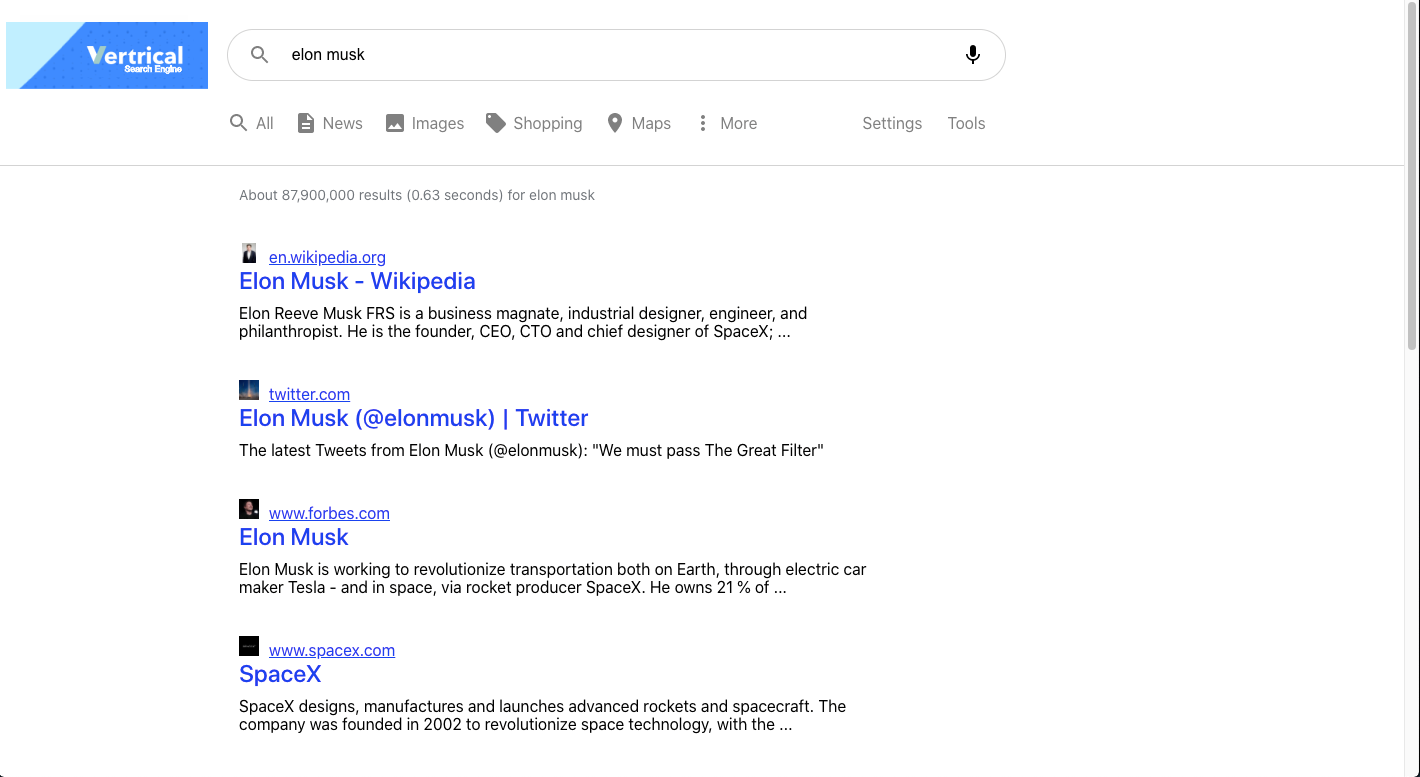
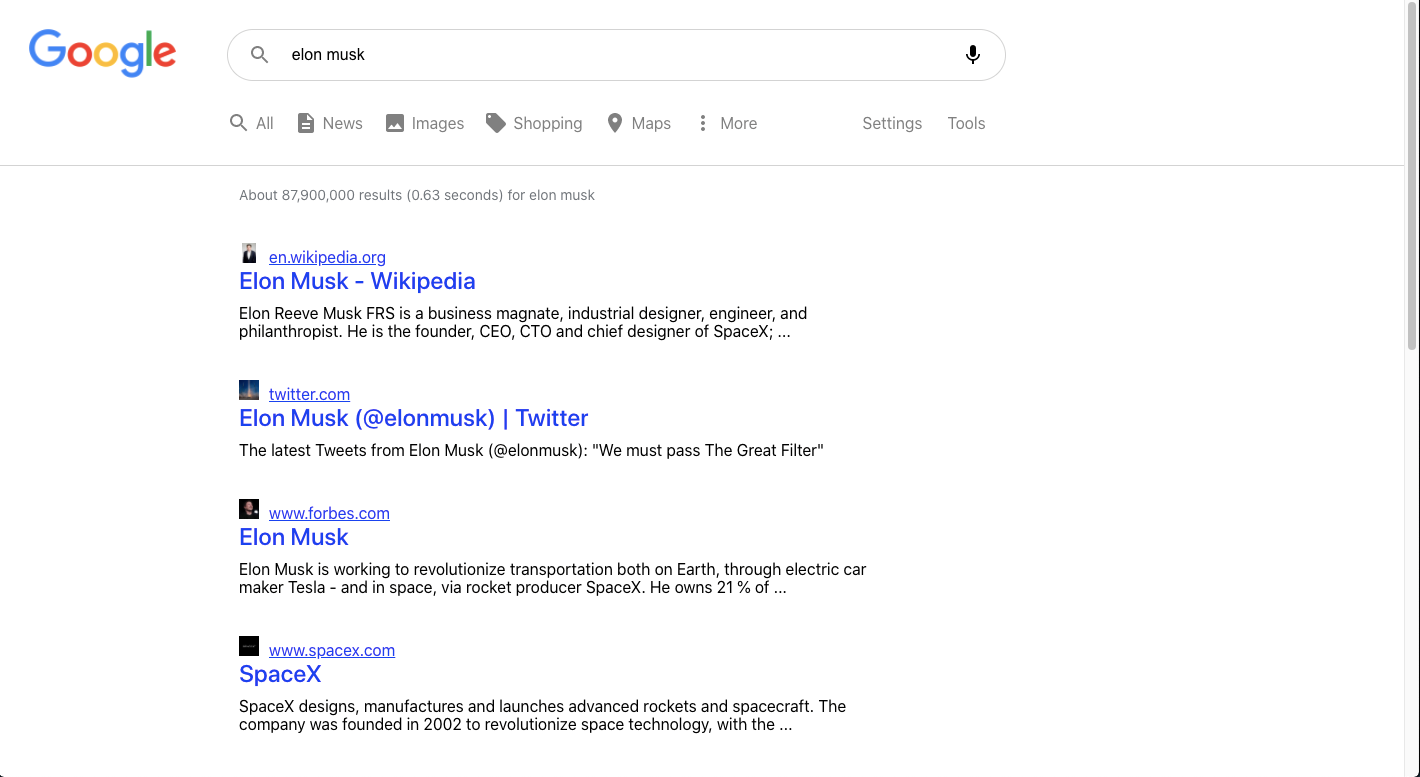
vertrical-requeriments

Changed region(s): [[0.0, 0.0309, 0.1549, 0.1236]]

diff --git a/README.md b/README.md
@@ -16,7 +16,7 @@
 
 <p>&nbsp;</p> 
 
-![img2](demo/img1.png)
+![img2](demo/img2.png)
 
 <p>&nbsp;</p> 
 <p>&nbsp;</p> 
